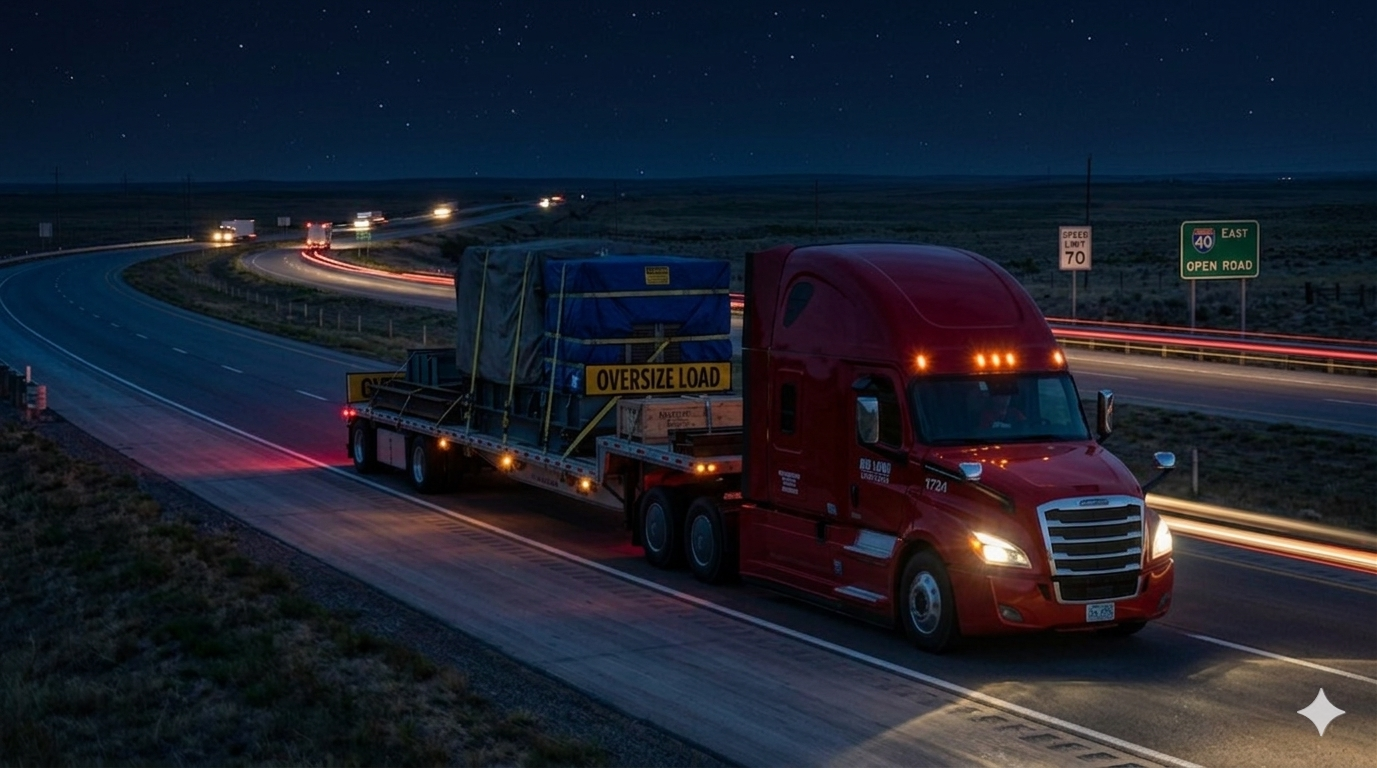
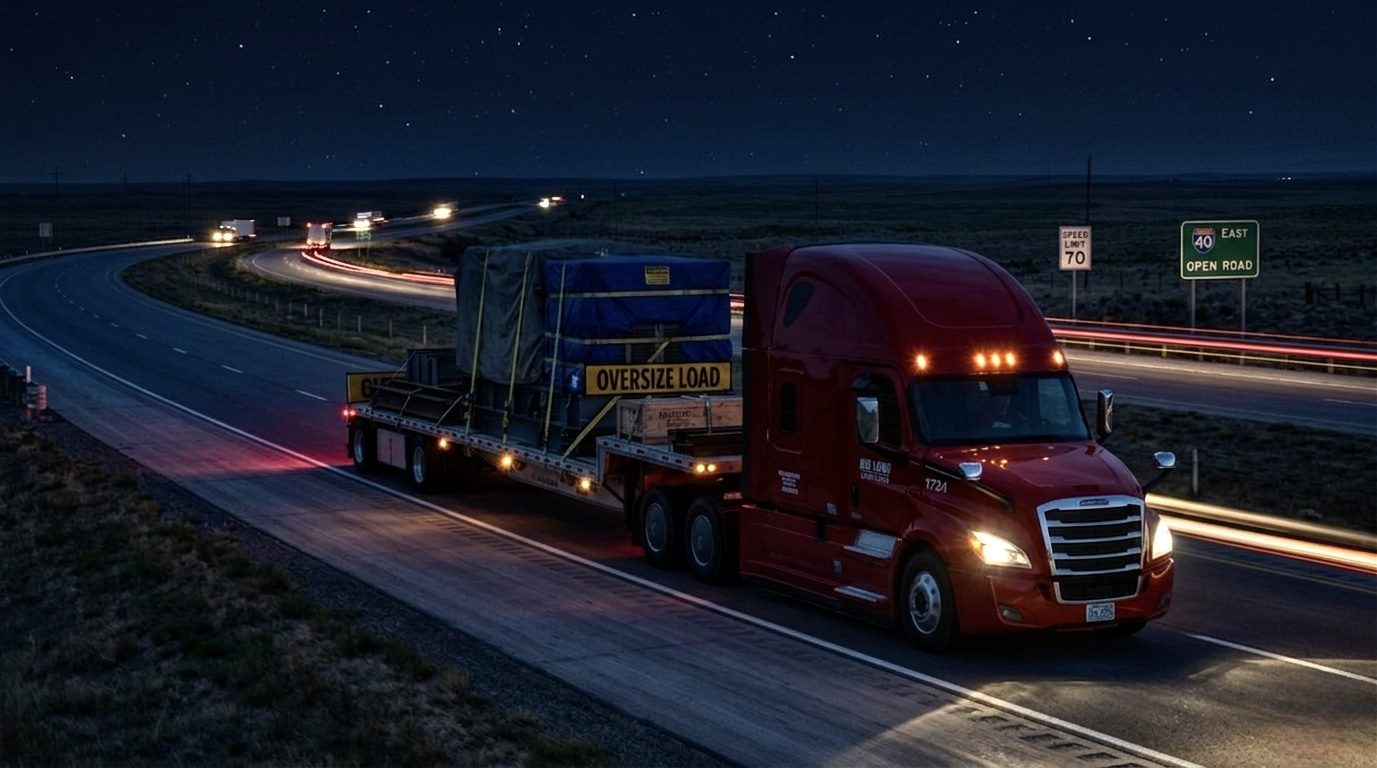
обновил главный фон сайта и ''добавил красок'' в разделы новостей и отзывов

diff --git a/my-app/src/components/pages/ReviewsPage.tsx b/my-app/src/components/pages/ReviewsPage.tsx
@@ -304,11 +304,16 @@ export const ReviewsPage: React.FC<ReviewsPageProps> = ({ theme = "dark", onBack
       {/* ── HERO ── */}
       <div style={{
         position: "relative",
-        background: isDark ? "linear-gradient(160deg,#0a0000 0%,#110000 40%,#0d0d0d 100%)" : "linear-gradient(160deg,#fff 0%,#fffbf0 40%,#f5f5f5 100%)",
+        background: isDark ? "#060400" : "#f5f0e8",
         padding: "90px clamp(20px,5vw,64px) 56px",
         overflow: "hidden",
       }}>
-        <div style={{ position: "absolute", inset: 0, backgroundImage: `repeating-linear-gradient(0deg,${isDark?"rgba(255,255,255,0.02)":"rgba(0,0,0,0.02)"} 0px,transparent 1px,transparent 60px),repeating-linear-gradient(90deg,${isDark?"rgba(255,255,255,0.02)":"rgba(0,0,0,0.02)"} 0px,transparent 1px,transparent 60px)`, pointerEvents: "none" }} />
+        {/* Background photo */}
+        <img src="/images/real1.jpg" alt="" style={{ position: "absolute", inset: 0, width: "100%", height: "100%", objectFit: "cover", objectPosition: "center 55%", filter: isDark ? "brightness(0.15) saturate(0.5) sepia(0.4)" : "brightness(0.5) saturate(0.4) sepia(0.3)", pointerEvents: "none" }} />
+        {/* Dark gradient overlay */}
+        <div style={{ position: "absolute", inset: 0, background: isDark ? "linear-gradient(110deg,rgba(6,4,0,0.94) 0%,rgba(20,14,0,0.78) 50%,rgba(6,4,0,0.9) 100%)" : "linear-gradient(110deg,rgba(255,252,230,0.9) 0%,rgba(245,240,200,0.75) 100%)", pointerEvents: "none" }} />
+        {/* BG grid lines */}
+        <div style={{ position: "absolute", inset: 0, backgroundImage: `repeating-linear-gradient(0deg,${isDark?"rgba(255,220,0,0.025)":"rgba(0,0,0,0.025)"} 0px,transparent 1px,transparent 60px),repeating-linear-gradient(90deg,${isDark?"rgba(255,220,0,0.025)":"rgba(0,0,0,0.025)"} 0px,transparent 1px,transparent 60px)`, pointerEvents: "none" }} />
         <div style={{ position: "absolute", left: 0, top: 0, bottom: 0, width: 4, background: "#eab308" }} />
         <div style={{ position: "absolute", top: 0, left: 0, right: 0, height: 3, background: "linear-gradient(90deg,transparent,#eab308 30%,#fde047 60%,#eab308 80%,transparent)" }} />
 

diff --git a/my-app/src/components/pages/NewsPage.tsx b/my-app/src/components/pages/NewsPage.tsx
@@ -381,9 +381,13 @@ export const NewsPage: React.FC<NewsPageProps> = ({ theme = "dark", onBack, onVi
       {selectedId !== null ? null : <>
 
       {/* ── HERO BANNER ── */}
-      <div style={{ position: "relative", background: isDark ? "linear-gradient(160deg,#0a0000 0%,#110000 40%,#0d0d0d 100%)" : "linear-gradient(160deg,#fff 0%,#f8f0f0 40%,#f5f5f5 100%)", padding: "90px clamp(20px,5vw,64px) 56px", overflow: "hidden" }}>
+      <div style={{ position: "relative", background: isDark ? "#080000" : "#f0ecec", padding: "90px clamp(20px,5vw,64px) 56px", overflow: "hidden" }}>
+        {/* Background photo */}
+        <img src="/images/real7.jpg" alt="" style={{ position: "absolute", inset: 0, width: "100%", height: "100%", objectFit: "cover", objectPosition: "center 40%", filter: isDark ? "brightness(0.18) saturate(0.7)" : "brightness(0.55) saturate(0.5)", pointerEvents: "none" }} />
+        {/* Dark gradient overlay */}
+        <div style={{ position: "absolute", inset: 0, background: isDark ? "linear-gradient(105deg,rgba(10,0,0,0.92) 0%,rgba(20,0,0,0.75) 50%,rgba(10,0,0,0.88) 100%)" : "linear-gradient(105deg,rgba(255,240,240,0.88) 0%,rgba(240,220,220,0.72) 100%)", pointerEvents: "none" }} />
         {/* BG grid lines */}
-        <div style={{ position: "absolute", inset: 0, backgroundImage: `repeating-linear-gradient(0deg,${isDark?"rgba(255,255,255,0.02)":"rgba(0,0,0,0.02)"} 0px,transparent 1px,transparent 60px),repeating-linear-gradient(90deg,${isDark?"rgba(255,255,255,0.02)":"rgba(0,0,0,0.02)"} 0px,transparent 1px,transparent 60px)`, pointerEvents: "none" }} />
+        <div style={{ position: "absolute", inset: 0, backgroundImage: `repeating-linear-gradient(0deg,${isDark?"rgba(255,255,255,0.025)":"rgba(0,0,0,0.025)"} 0px,transparent 1px,transparent 60px),repeating-linear-gradient(90deg,${isDark?"rgba(255,255,255,0.025)":"rgba(0,0,0,0.025)"} 0px,transparent 1px,transparent 60px)`, pointerEvents: "none" }} />
         {/* Red left line */}
         <div style={{ position: "absolute", left: 0, top: 0, bottom: 0, width: 4, background: "#CC0000" }} />
         {/* Top glow */}
